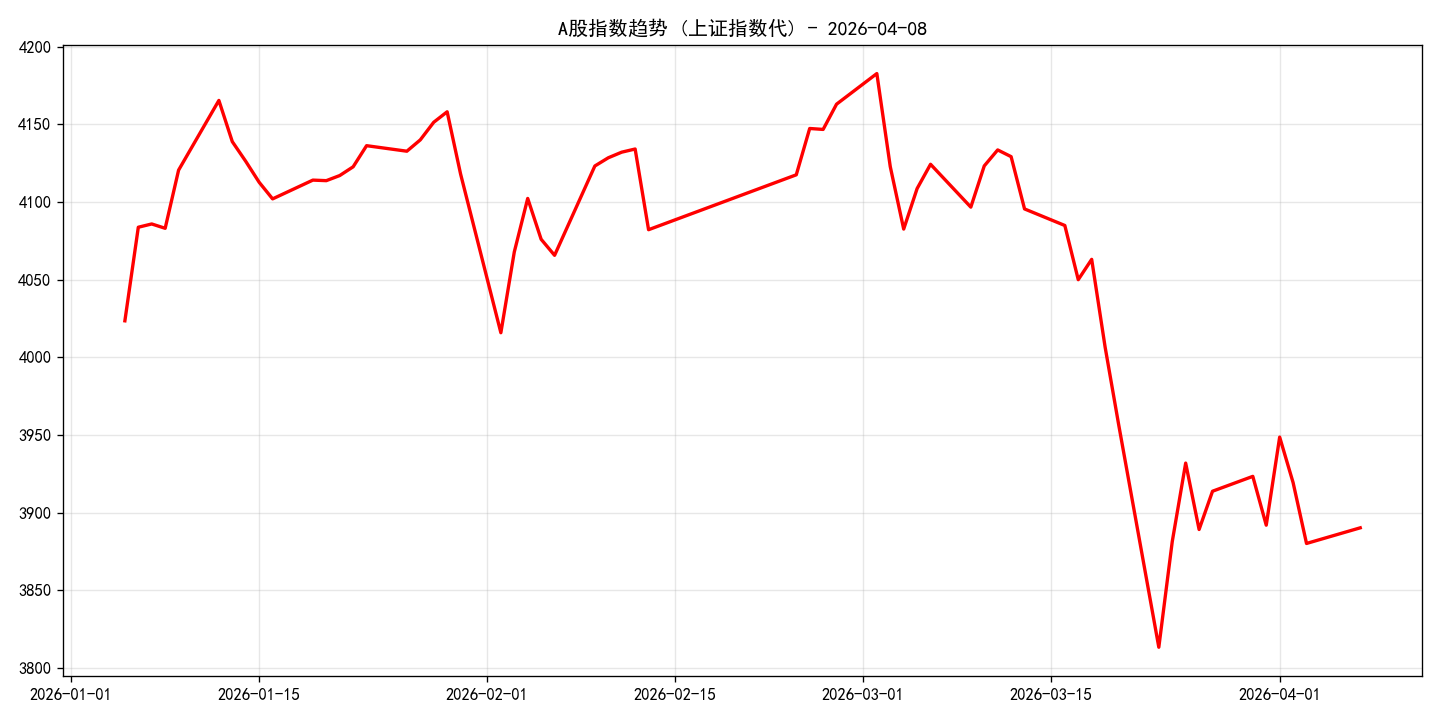
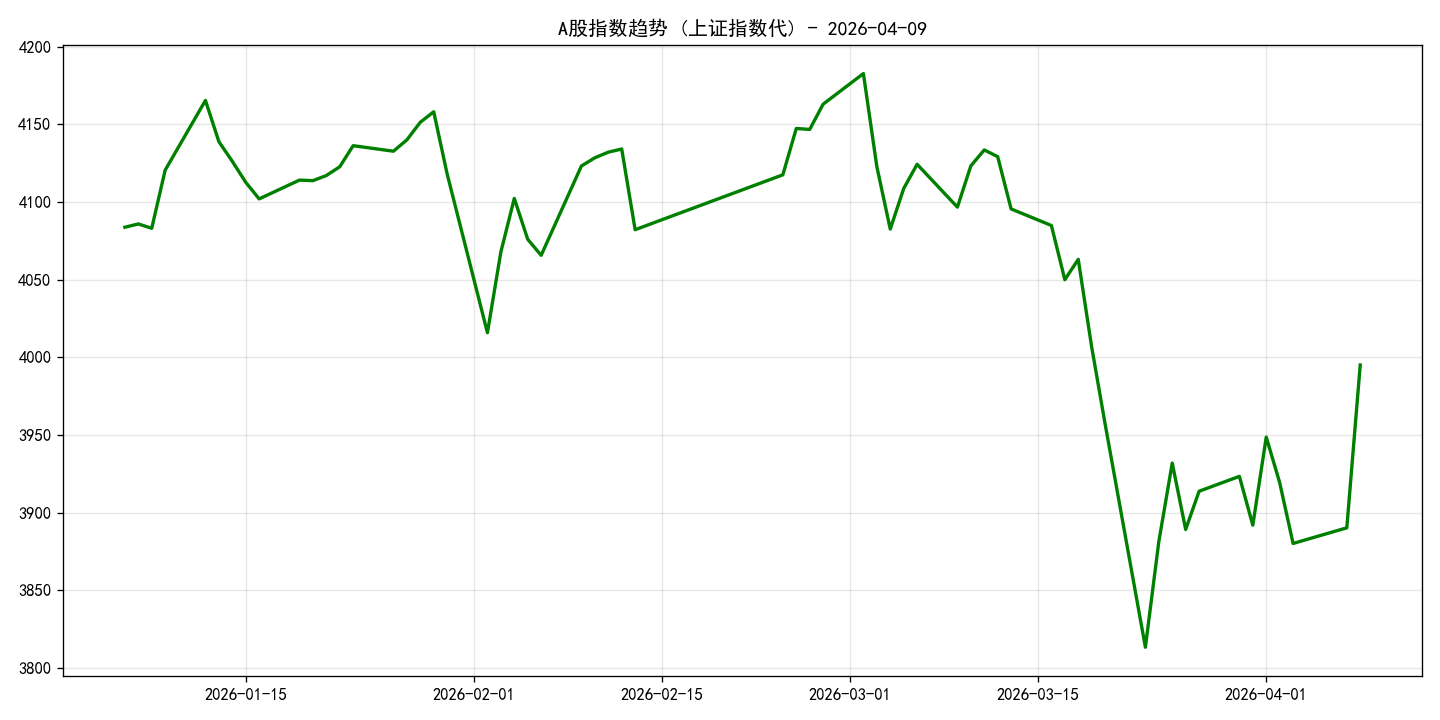
Auto: Daily A-share Recap Update 2026-04-09

diff --git a/ashare_recap.html b/ashare_recap.html
@@ -3,7 +3,7 @@
 <head>
     <meta charset="UTF-8">
     <meta name="viewport" content="width=device-width, initial-scale=1.0">
-    <title>A股收盘复盘 - 2026-04-08</title>
+    <title>A股收盘复盘 - 2026-04-09</title>
     <style>
         body { font-family: sans-serif; padding: 20px; line-height: 1.6; max-width: 800px; margin: 0 auto; background: #f9f9f9; }
         .card { background: white; padding: 20px; border-radius: 12px; shadow: 0 4px 10px rgba(0,0,0,0.1); }
@@ -15,12 +15,12 @@
 </head>
 <body>
     <div class="card">
-        <h1>A股收盘复盘 (2026-04-08)</h1>
+        <h1>A股收盘复盘 (2026-04-09)</h1>
         <div class="stat">
-            中证全指：6059.75 
-            <span class="up">(+4.07%)</span>
+            中证全指：6020.05 
+            <span class="down">(-0.66%)</span>
         </div>
-        <p>今日市场呈现<strong>上涨</strong>态势。成交额约为 24001.79 亿元。</p>
+        <p>今日市场呈现<strong>下跌</strong>态势。成交额约为 21051.93 亿元。</p>
         <img src="ashare_recap_trend.png" alt="Trend">
         <hr>
         <p style="text-align: center; color: #666;">自动生成于收盘后一小时 | 投研助手 Q</p>
